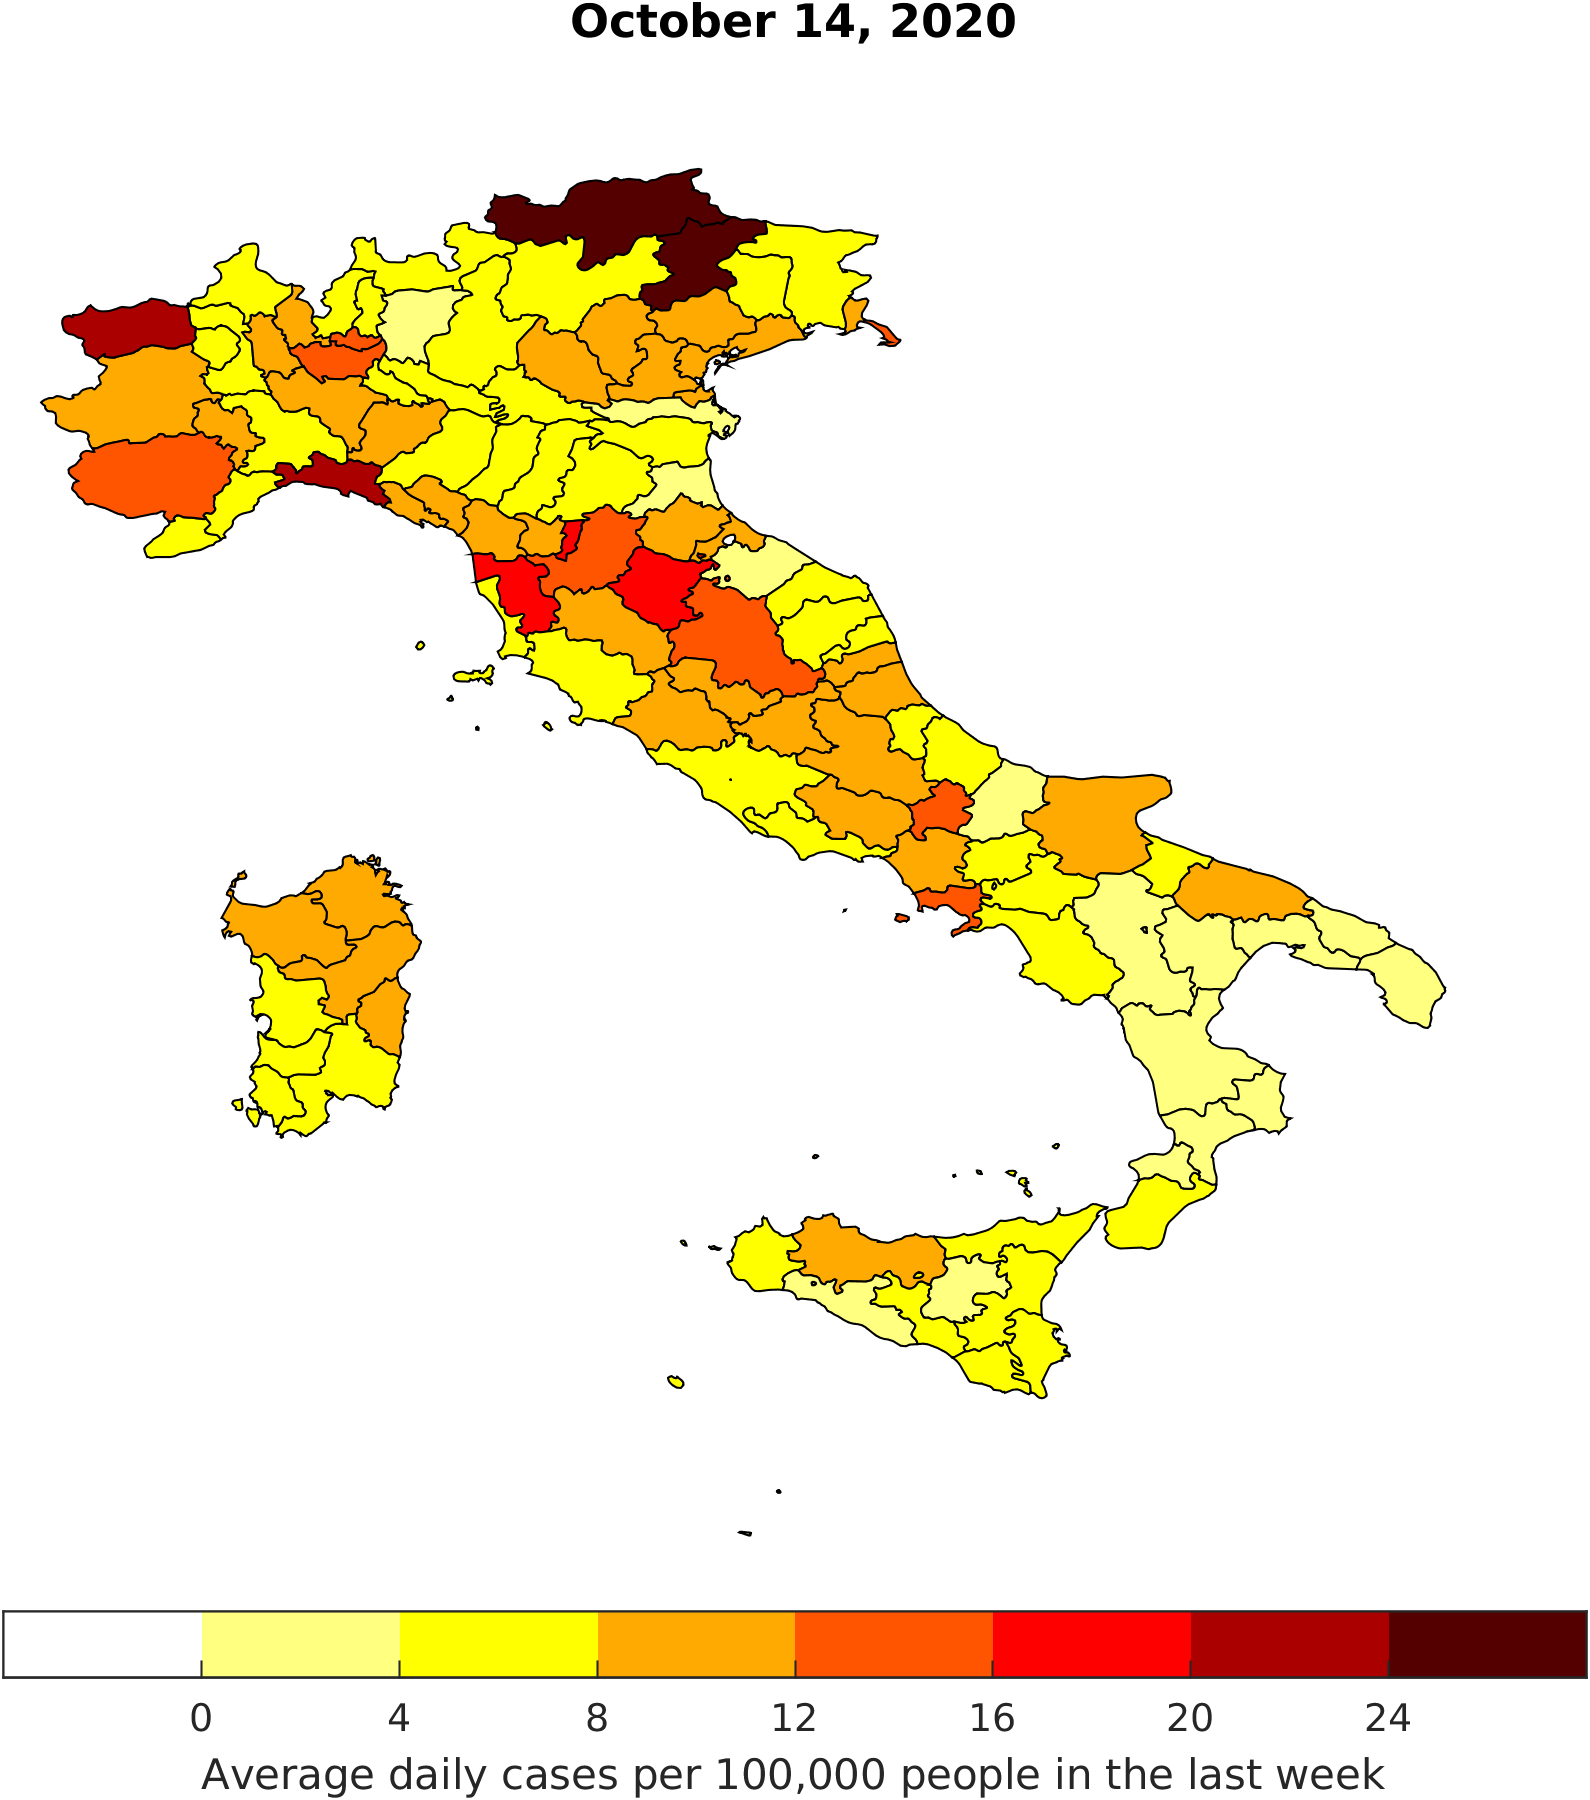
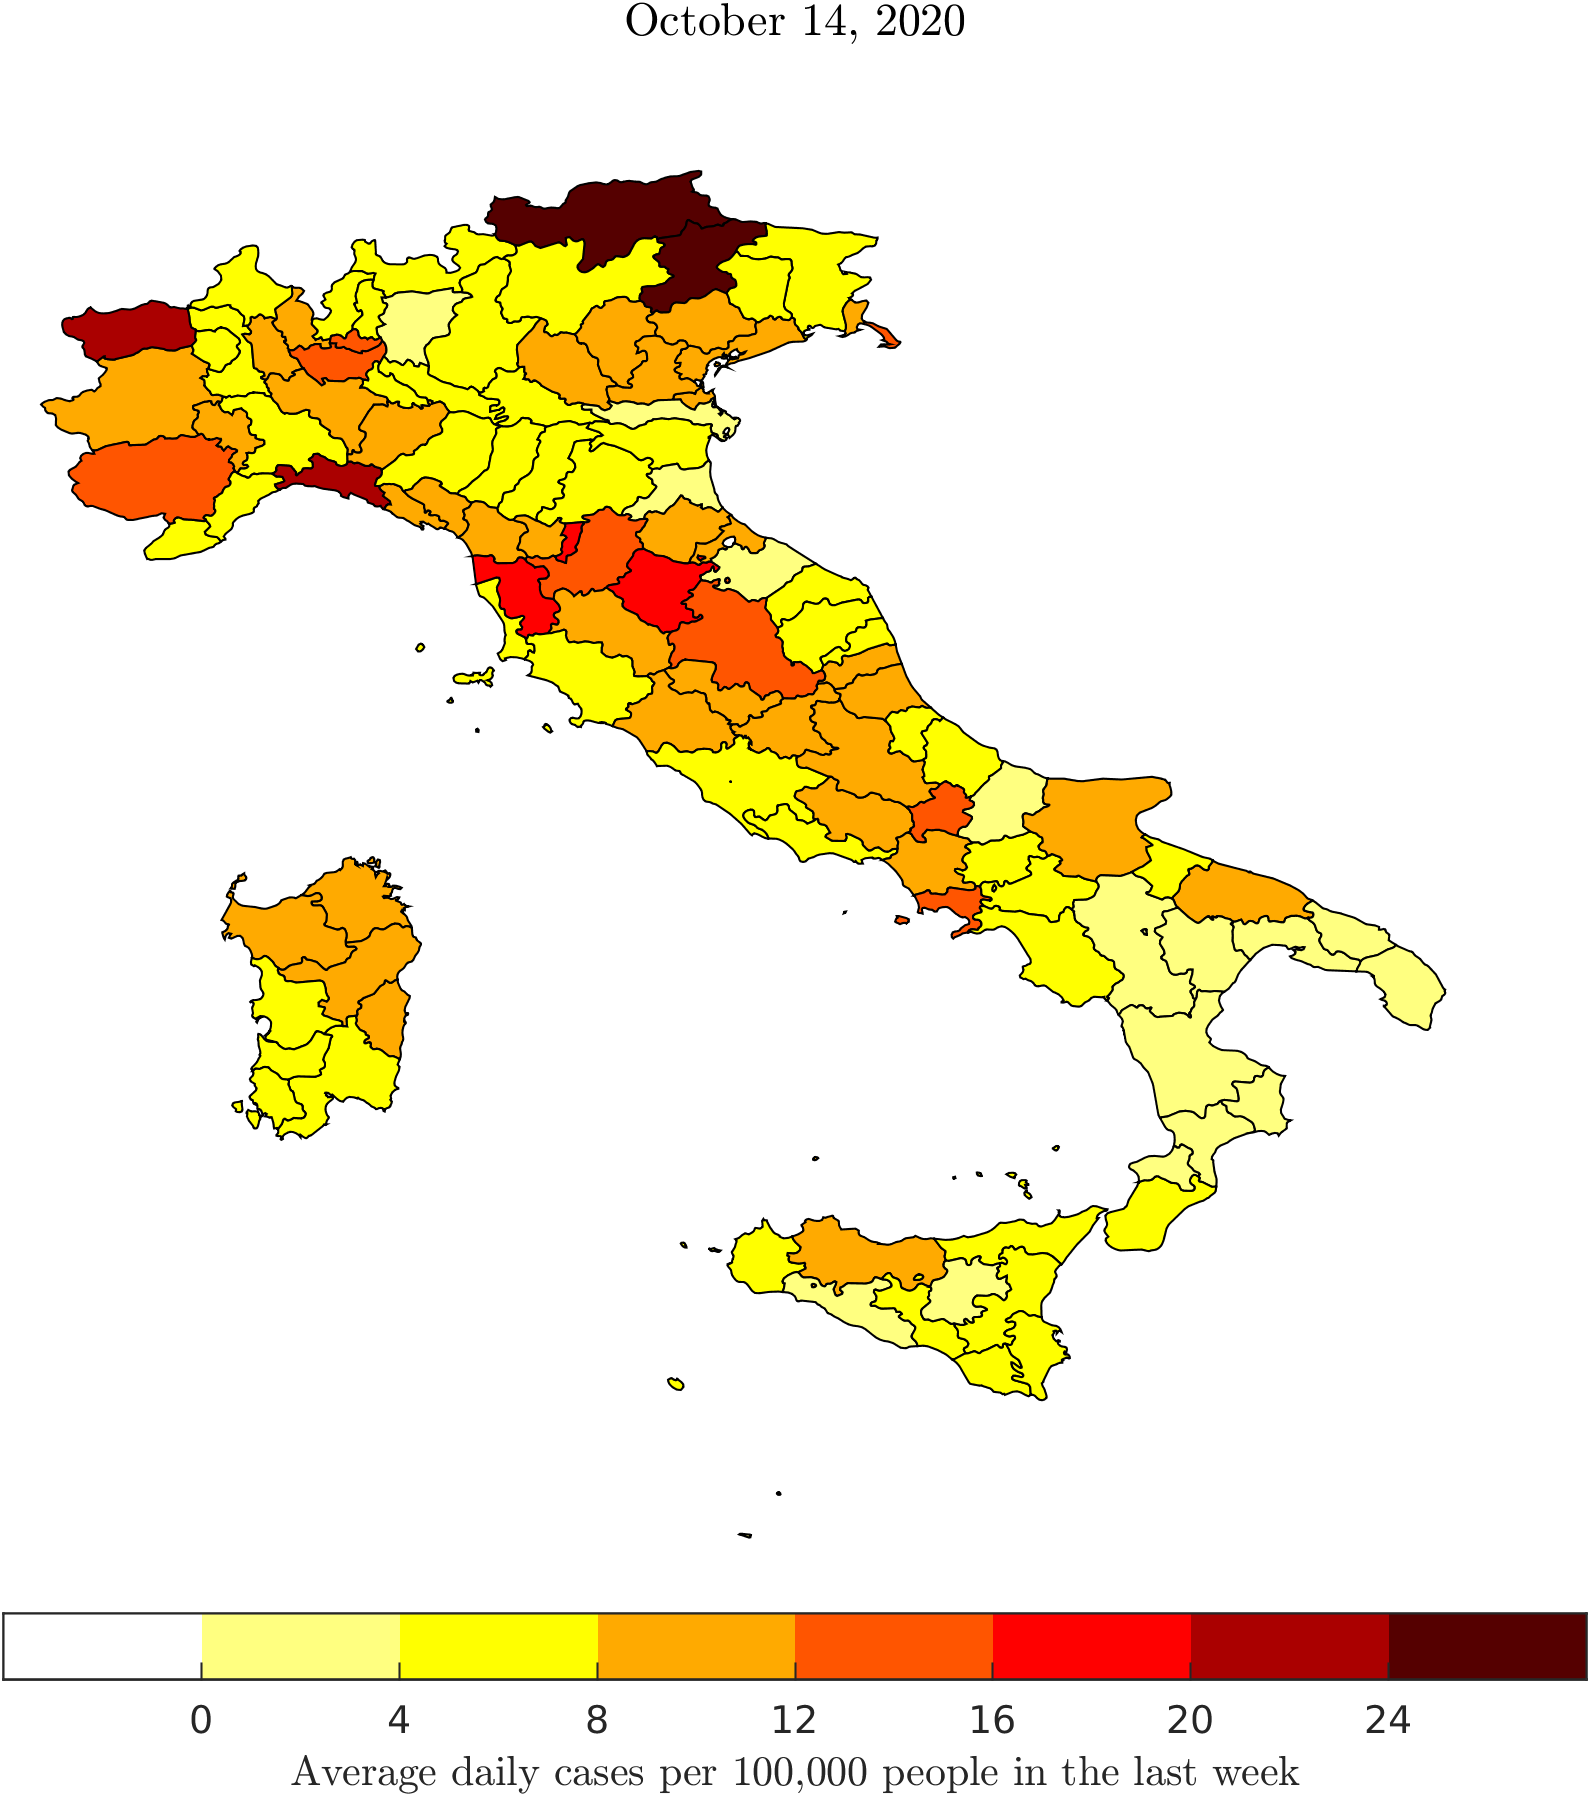
Latex labels

diff --git a/matlab/main_covid_hotspots.m b/matlab/main_covid_hotspots.m
@@ -185,8 +185,10 @@ for k = 1:n_provs
     end
 end
 date_format = 'mmmm dd, yyyy';
-set(get(gca, 'Title'), 'String', datestr(today, date_format));
-% set(get(gca, 'Title'), 'String', 'Province-Colored Map');
+set(get(gca, 'Title'), 'String', datestr(today, date_format), ...
+    'Interpreter', 'Latex');
+% set(get(gca, 'Title'), 'String', 'Province-Colored Map', ...
+    % 'Interpreter', 'Latex');
 cb = colorbar(gca);
 
 step_level = (upp_level - low_level) / n_levels;
@@ -197,6 +199,7 @@ caxis([low_color_level, upp_color_level]);
 set(cb, 'Ticks', low_level:step_level:upp_level);
 set(cb, 'Location', 'South');
 cb.Label.String = 'Average daily cases per 100,000 people in the last week';
+cb.Label.Interpreter = 'Latex';
 cb.Label.FontSize = 10;
 set(cb, 'AxisLocation', 'out');
 
